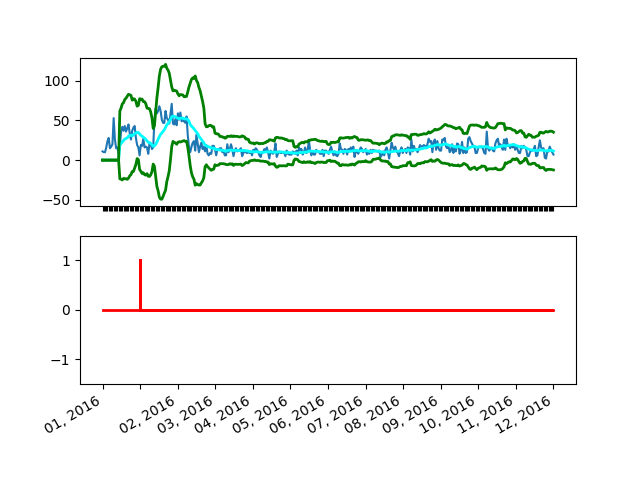
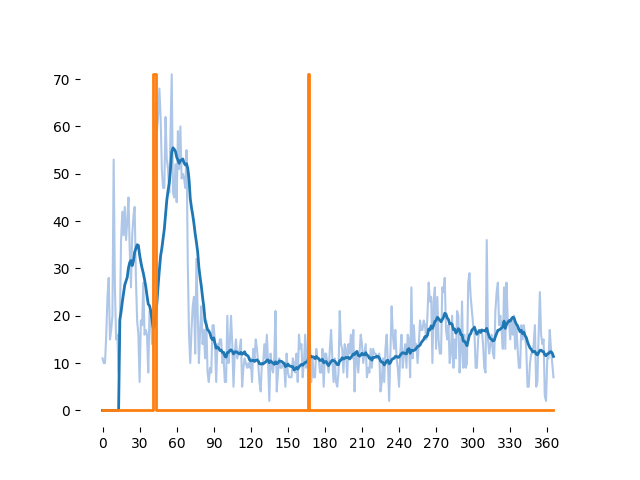
change plot styling

diff --git a/frontend/src/containers/Navigation/index.js b/frontend/src/containers/Navigation/index.js
@@ -93,6 +93,7 @@ class Navigation extends Component {
       time,
     } = this.state;
     const { selection } = this.props;
+    console.log(hashtags);
 
     const spikeInfo = (
       <div>

diff --git a/backend/utils.py b/backend/utils.py
@@ -45,18 +45,35 @@ def get_plot(path, value):
 
 def create_plot(value, x_ticks_dates,y,result):
     threshold = 4
-    
-    plt.subplot(211)
 
-    plt.plot(x_ticks_dates, y)
+    print(len(x_ticks_dates))
+    tableau20 = [(31, 119, 180), (174, 199, 232), (255, 127, 14), (255, 187, 120),
+             (44, 160, 44), (152, 223, 138), (214, 39, 40), (255, 152, 150),
+             (148, 103, 189), (197, 176, 213), (140, 86, 75), (196, 156, 148),
+             (227, 119, 194), (247, 182, 210), (127, 127, 127), (199, 199, 199),
+             (188, 189, 34), (219, 219, 141), (23, 190, 207), (158, 218, 229)]
+
+    tableau20 = [(c[0]/255., c[1]/255., c[2]/255.) for c in tableau20]
+    
+    #plt.subplot(211)
+    ax = plt.subplot(111)    
+    ax.spines["top"].set_visible(False)    
+    ax.spines["bottom"].set_visible(False)    
+    ax.spines["right"].set_visible(False)    
+    ax.spines["left"].set_visible(False)
+
+    plt.plot(x_ticks_dates, y, color=tableau20[1])
     plt.plot(x_ticks_dates,
-               result["avgFilter"], color="cyan", lw=2)
+               result["avgFilter"], color=tableau20[0], lw=2)
     # plt.plot(x_ticks_dates,
     #            result["avgFilter"] + threshold * result["stdFilter"], color="green", lw=2)
     # plt.plot(x_ticks_dates,
     #            result["avgFilter"] - threshold * result["stdFilter"], color="green", lw=2)
-    plt.gcf().autofmt_xdate()
+    plt.step(x_ticks_dates, result["signals"] * np.max(y), color=tableau20[2], lw=2)
+    #plt.gcf().autofmt_xdate()
+    plt.xticks(range(0, len(x_ticks_dates), 30), [x for x in range(0, len(x_ticks_dates), 30)])
     
+    """
     dates = {}
     for i in range(len(x_ticks_dates)):
         year, month, day = x_ticks_dates[i].split("-")
@@ -69,13 +86,16 @@ def create_plot(value, x_ticks_dates,y,result):
         else:
             x_ticks_dates[i] = "{}, {}".format(month, year)
             dates[year][month] = 1
+    """
     
+    """
     plt.subplot(212)
     plt.step(x_ticks_dates, result["signals"], color="red", lw=2)
     plt.ylim(-1.5, 1.5)
     plt.gcf().autofmt_xdate()
     #plt.savefig(value + '.png')
-    plt.savefig("../frontend/public/fash.png")
+    """
+    plt.savefig("../frontend/public/plots/fash.png")
     plt.close()
     return 
 
